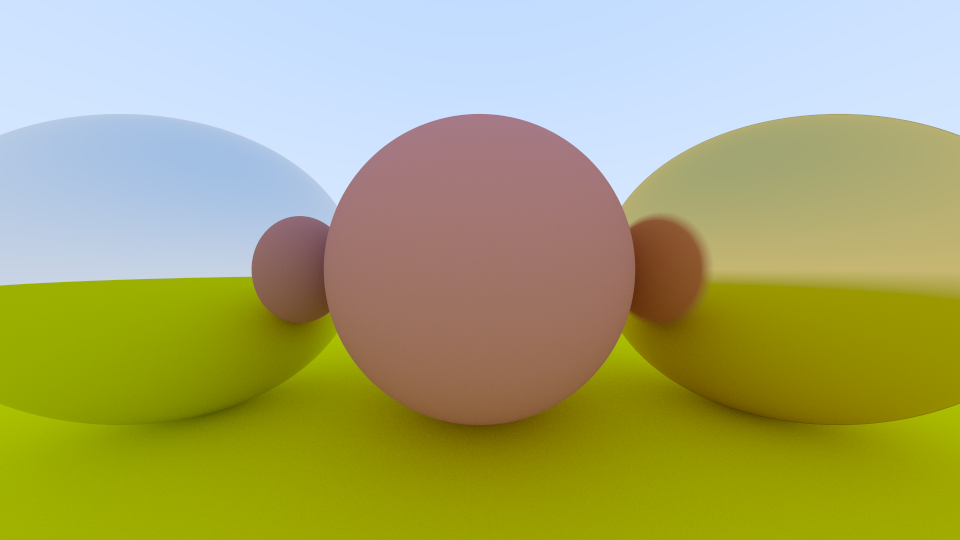
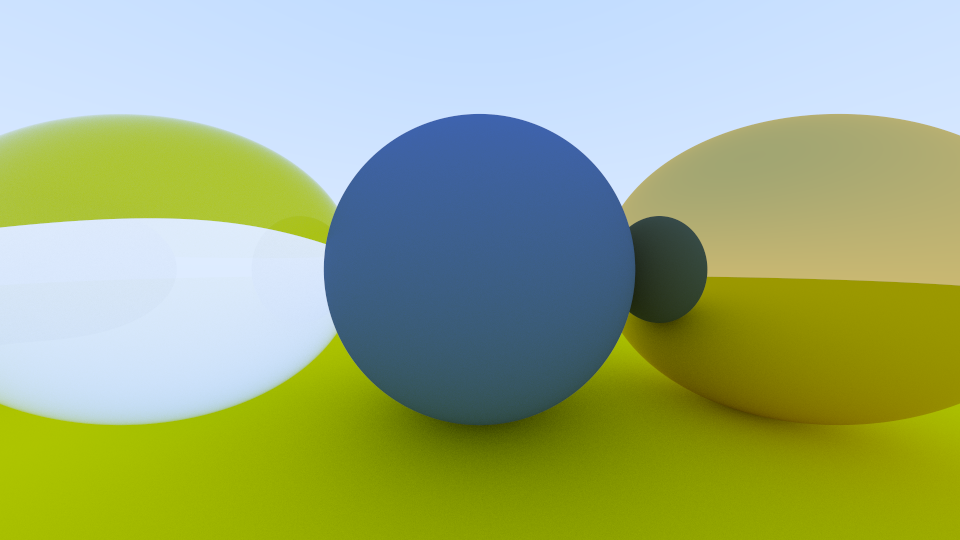
Checkpoint

diff --git a/src/material.cpp b/src/material.cpp
@@ -22,3 +22,31 @@ Metal::scatter(const Ray& r, const HitResult& res) const noexcept
     return scattered.getDirection().dot(res.normal) > 0 ? std::make_optional(std::pair(scattered, m_albedo))
                                                         : std::nullopt;
 }
+
+std::optional<std::pair<Ray, Vec3>>
+Dielectric::scatter(const Ray& r, const HitResult& res) const noexcept
+{
+    float refractive_indices_ratio = res.front_face ? (1.0f / m_refractive_index) : m_refractive_index;
+    Vec3 unit_incident_direction   = r.getDirection().normalize();
+    Vec3 normal                    = res.normal;
+    float cos_theta                = fmin(normal.dot(-unit_incident_direction), 1.0f);
+    float sin_theta                = sqrtf(1.0f - cos_theta * cos_theta);
+
+    auto scattered = Vec3{};
+    if (refractive_indices_ratio * sin_theta > 1.0f ||
+        reflectance(cos_theta, refractive_indices_ratio) > random_float())
+        scattered = reflect(unit_incident_direction, normal);
+    else
+        scattered = refract(unit_incident_direction, normal, refractive_indices_ratio);
+
+    return std::make_optional(std::make_pair(Ray{ res.hit_point, scattered }, Vec3{ 1.0f, 1.0f, 1.0f }));
+}
+
+float
+Dielectric::reflectance(float cos, float refractive_indices_ratio) noexcept
+{
+    // Use Schlick's approximation for reflectance.
+    float r0 = (1.0f - refractive_indices_ratio) / (1.0f + refractive_indices_ratio);
+    r0      = r0 * r0;
+    return r0 + (1.0f - r0) * powf((1.0f - cos), 5.0f);
+}

diff --git a/src/main.cpp b/src/main.cpp
@@ -49,6 +49,7 @@ int
 main()
 {
     omp_set_num_threads(thread_count);
+    std::cout << std::format("{} threads are being used.\n", thread_count);
 
     // Image
     static constexpr float aspect_ratio = 16.0f / 9.0f;
@@ -66,9 +67,9 @@ main()
 
     // Material
     auto material_ground = std::make_shared<Lambertian>(Vec3{ 0.8f, 0.8f, 0.0f });
-    auto material_center = std::make_shared<Lambertian>(Vec3{ 0.7f, 0.3f, 0.3f });
-    auto material_left   = std::make_shared<Metal>(Vec3{ 0.8f, 0.8f, 0.8f }, 0.001f);
-    auto material_right  = std::make_shared<Metal>(Vec3{ 0.8f, 0.6f, 0.2f }, 0.1f);
+    auto material_center = std::make_shared<Lambertian>(Vec3{ 0.1f, 0.2f, 0.5f });
+    auto material_left = std::make_shared<Dielectric>(1.5f);
+    auto material_right  = std::make_shared<Metal>(Vec3{ 0.8f, 0.6f, 0.2f }, 0.0f);
 
     // World
     HittableList world;
@@ -76,6 +77,7 @@ main()
     world.addObject(std::make_shared<Sphere>(Vec3{ 0.0f, 0.0f, 1.0f }, 0.5f, material_center));
     world.addObject(std::make_shared<Sphere>(Vec3{ -1.0f, 0.0f, 1.0f }, 0.5f, material_left));
     world.addObject(std::make_shared<Sphere>(Vec3{ 1.0f, 0.0f, 1.0f }, 0.5f, material_right));
+
 
     // Render
     int sample_count = 0;

diff --git a/src/utils.h b/src/utils.h
@@ -64,6 +64,15 @@ reflect(const Vec3& incident_direction, const Vec3& normal) noexcept
 }
 
 inline Vec3
+refract(const Vec3& incident_direction, const Vec3& normal, float etai_over_etat) noexcept
+{
+    float cos_theta = fmin(normal.dot(-incident_direction), 1.0f);
+    Vec3 refracted_perp = etai_over_etat * (incident_direction + cos_theta * normal);
+    Vec3 refracted_parallel = -sqrtf(fabs(1.0f - refracted_perp.length_squared())) * normal;
+    return refracted_perp  + refracted_parallel;
+}
+
+inline Vec3
 sqrt_vec3(const Vec3& v) noexcept
 {
     Vec3 ret;

diff --git a/src/material.h b/src/material.h
@@ -30,3 +30,16 @@ private:
     Vec3 m_albedo;
     float m_fuzz;
 };
+
+class Dielectric : public Material
+{
+public:
+    Dielectric(float refractive_index) noexcept : m_refractive_index{ refractive_index } {}
+
+    virtual std::optional<std::pair<Ray, Vec3>> scatter(const Ray& r, const HitResult& res) const noexcept override;
+
+private:
+    float m_refractive_index;
+
+    static float reflectance(float cos, float refractice_indices_ratio) noexcept;
+};
